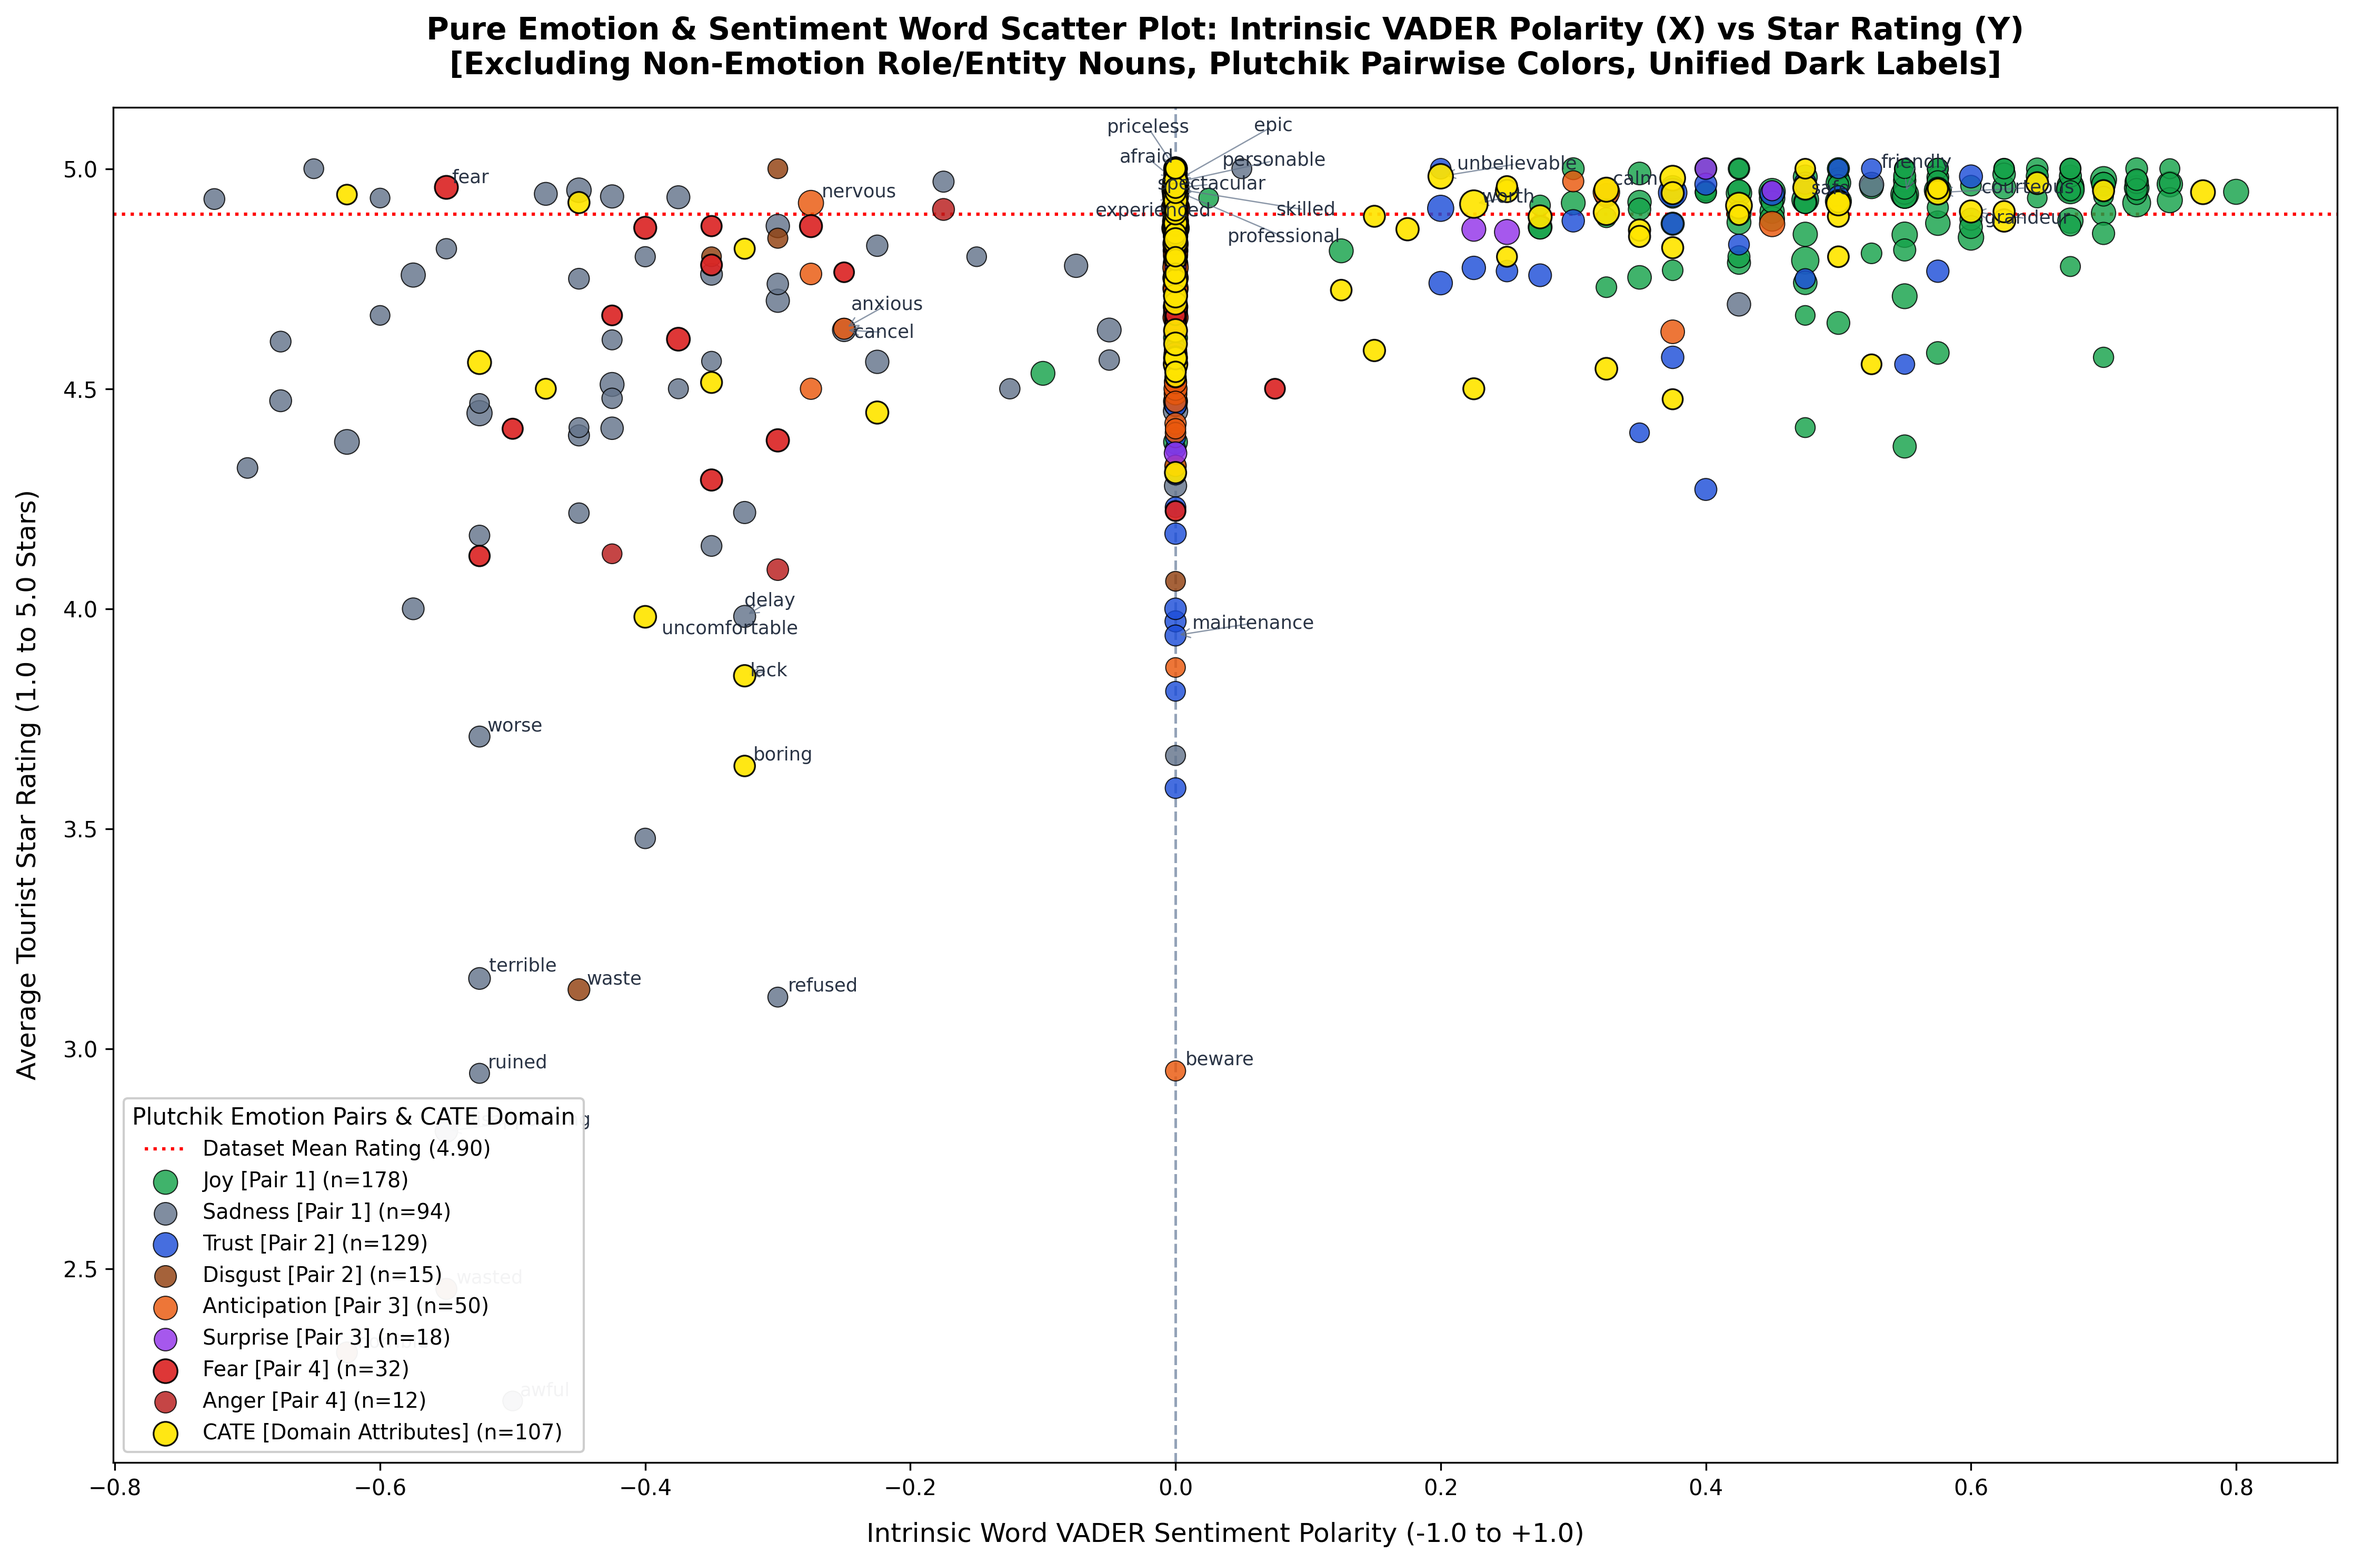
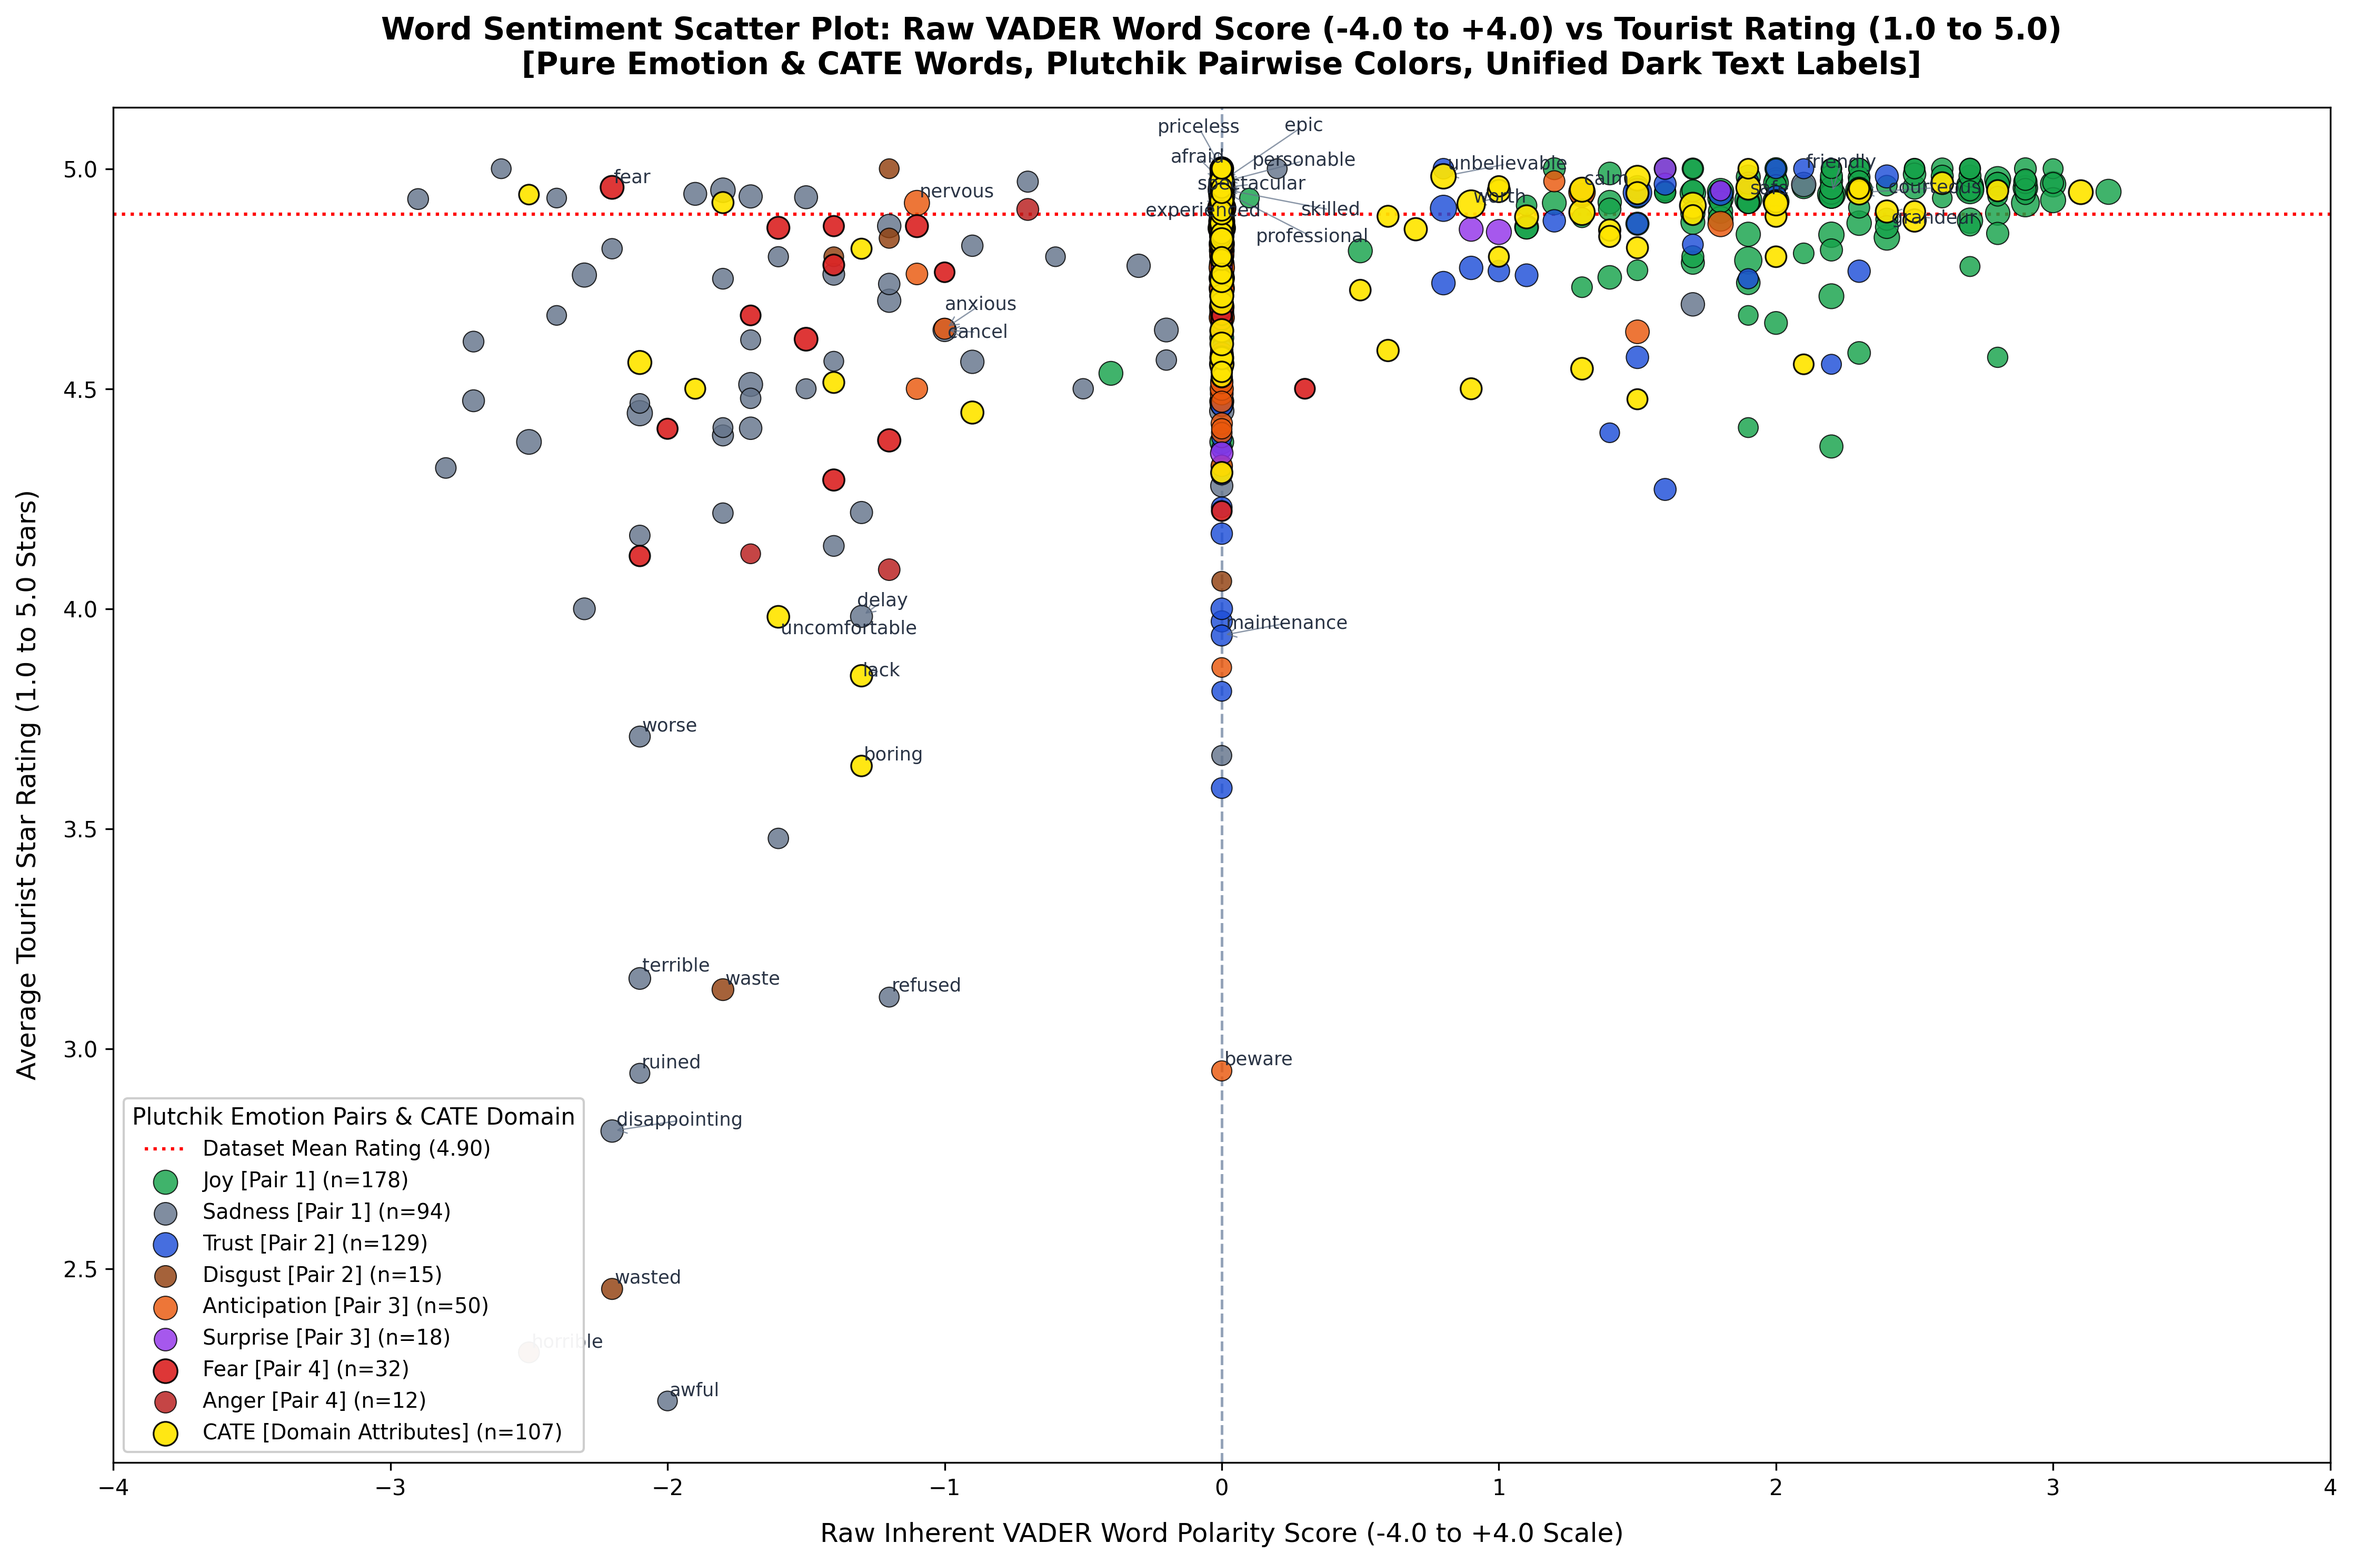
feat(ai): use unscaled raw VADER word polarity score (-4.0 to +4.0) on x-axis

diff --git a/generate_nrc_pure_emotions_scatter.py b/generate_nrc_pure_emotions_scatter.py
@@ -20,11 +20,6 @@ try:
 except LookupError:
     nltk.download('vader_lexicon', quiet=True)
 
-try:
-    nltk.data.find('taggers/averaged_perceptron_tagger.zip')
-except LookupError:
-    nltk.download('averaged_perceptron_tagger', quiet=True)
-
 sia = SentimentIntensityAnalyzer()
 vader_lexicon = sia.lexicon
 
@@ -107,30 +102,25 @@ for word, stats in word_data.items():
     if stats['count'] < 15:
         continue
     
-    # Calculate INTRINSIC VADER WORD POLARITY (-1.0 to +1.0)
+    # RAW VADER WORD POLARITY SCORE (-4.0 to +4.0)
     if word in vader_lexicon:
-        intrinsic_polarity = vader_lexicon[word] / 4.0
+        raw_vader_score = vader_lexicon[word]
     else:
-        intrinsic_polarity = 0.0
+        raw_vader_score = 0.0
         
     records.append({
         'word': word,
         'count': stats['count'],
         'mean_rating': np.mean(stats['ratings']),
-        'intrinsic_polarity': intrinsic_polarity,
+        'raw_vader_score': raw_vader_score,
         'category': stats['category']
     })
 
 words_df = pd.DataFrame(records)
 dataset_mean_rating = df['rating'].mean()
 
-# Save pure emotion word stats
-out_csv = 'data/derived_outputs/nrc_pure_emotion_words_stats.csv'
-words_df.to_csv(out_csv, index=False)
-print(f"Saved pure emotion word stats ({len(words_df)} words) to {out_csv}")
-
 # -------------------------------------------------------------
-# Generate Publication Scatter Plot: Pure Emotion Words Only
+# Generate Publication Scatter Plot: RAW VADER Score (-4.0 to +4.0) vs Rating (1.0 to 5.0)
 # -------------------------------------------------------------
 plt.style.use('seaborn-v0_8-whitegrid' if 'seaborn-v0_8-whitegrid' in plt.style.available else 'default')
 fig, ax = plt.subplots(figsize=(15.0, 10.0), dpi=300)
@@ -159,7 +149,7 @@ for cat_code, cat_label in plutchik_legend_order:
     
     cnt_n = len(sub)
     ax.scatter(
-        sub['intrinsic_polarity'], sub['mean_rating'],
+        sub['raw_vader_score'], sub['mean_rating'],
         c=color, s=sizes, label=f"{cat_label} (n={cnt_n})",
         alpha=0.92 if cat_code in ['CATE', 'FEAR'] else 0.82, 
         edgecolors='black', linewidths=lw, zorder=z_ord
@@ -177,12 +167,12 @@ curated_annotate_words = {
     'spectacular', 'unbelievable', 'breathtaking', 'epic', 'grandeur', 'priceless', 'safe', 'calm'
 }
 
-# RULE COMPLIANCE: ALL WORD LABELS ARE STRICTLY UNIFIED DARK BLACK (#1E293B), REGULAR WEIGHT, 8.5pt
+# ALL WORD LABELS STRICTLY UNIFIED IN DARK SLATE BLACK (#1E293B), REGULAR WEIGHT, 8.5pt
 texts = []
 for idx, row in words_df.iterrows():
     w = row['word']
     if w in curated_annotate_words:
-        x = row['intrinsic_polarity']
+        x = row['raw_vader_score']
         y = row['mean_rating']
         
         txt = ax.text(x, y, w, fontsize=8.5, fontweight='normal', color='#1E293B', alpha=0.95, zorder=5)
@@ -197,9 +187,10 @@ adjust_text(
     force_points=(0.6, 0.9)
 )
 
-ax.set_title('Pure Emotion & Sentiment Word Scatter Plot: Intrinsic VADER Polarity (X) vs Star Rating (Y)\n[Excluding Non-Emotion Role/Entity Nouns, Plutchik Pairwise Colors, Unified Dark Labels]', fontsize=14, fontweight='bold', pad=15)
-ax.set_xlabel('Intrinsic Word VADER Sentiment Polarity (-1.0 to +1.0)', fontsize=12, labelpad=10)
+ax.set_title('Word Sentiment Scatter Plot: Raw VADER Word Score (-4.0 to +4.0) vs Tourist Rating (1.0 to 5.0)\n[Pure Emotion & CATE Words, Plutchik Pairwise Colors, Unified Dark Text Labels]', fontsize=14, fontweight='bold', pad=15)
+ax.set_xlabel('Raw Inherent VADER Word Polarity Score (-4.0 to +4.0 Scale)', fontsize=12, labelpad=10)
 ax.set_ylabel('Average Tourist Star Rating (1.0 to 5.0 Stars)', fontsize=12, labelpad=10)
+ax.set_xlim(-4.0, +4.0)
 
 ax.legend(title='Plutchik Emotion Pairs & CATE Domain', fontsize=9.5, title_fontsize=10.5, loc='lower left', frameon=True, facecolor='white', framealpha=0.95)
 
@@ -211,4 +202,4 @@ plt.savefig(out_fig, dpi=300, bbox_inches='tight')
 plt.savefig('figures/word_sentiment_scatter_exact_match.png', dpi=300, bbox_inches='tight')
 plt.close()
 
-print(f"Saved Pure Emotion Word scatter plot to {out_fig}")
+print(f"Saved Raw VADER Word Score (-4.0 to +4.0) scatter plot to {out_fig}")
